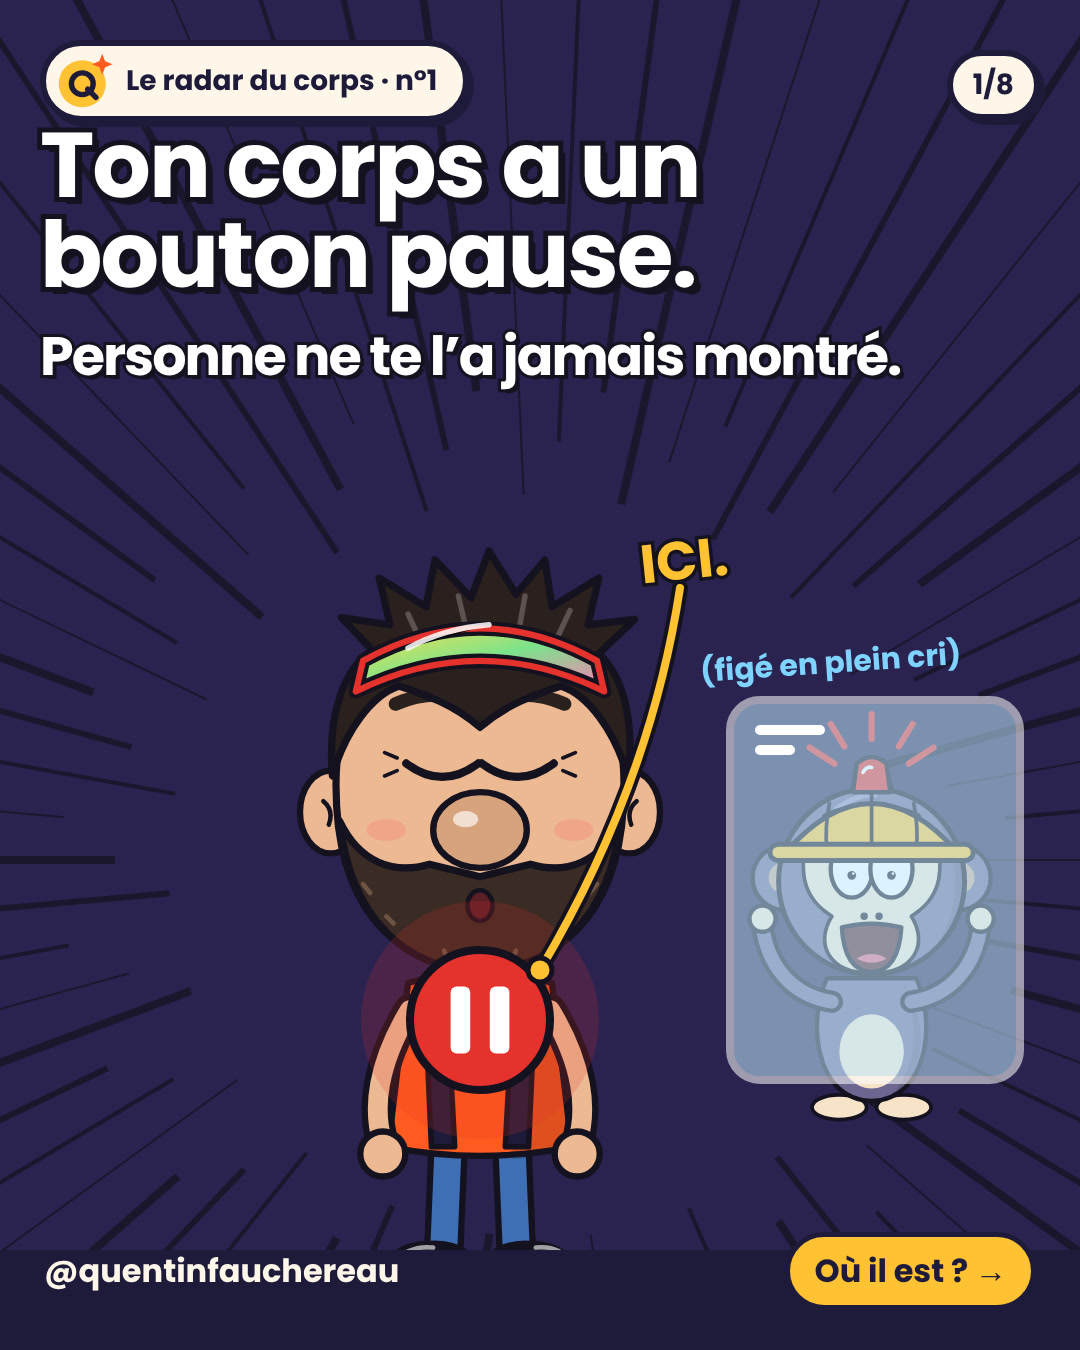
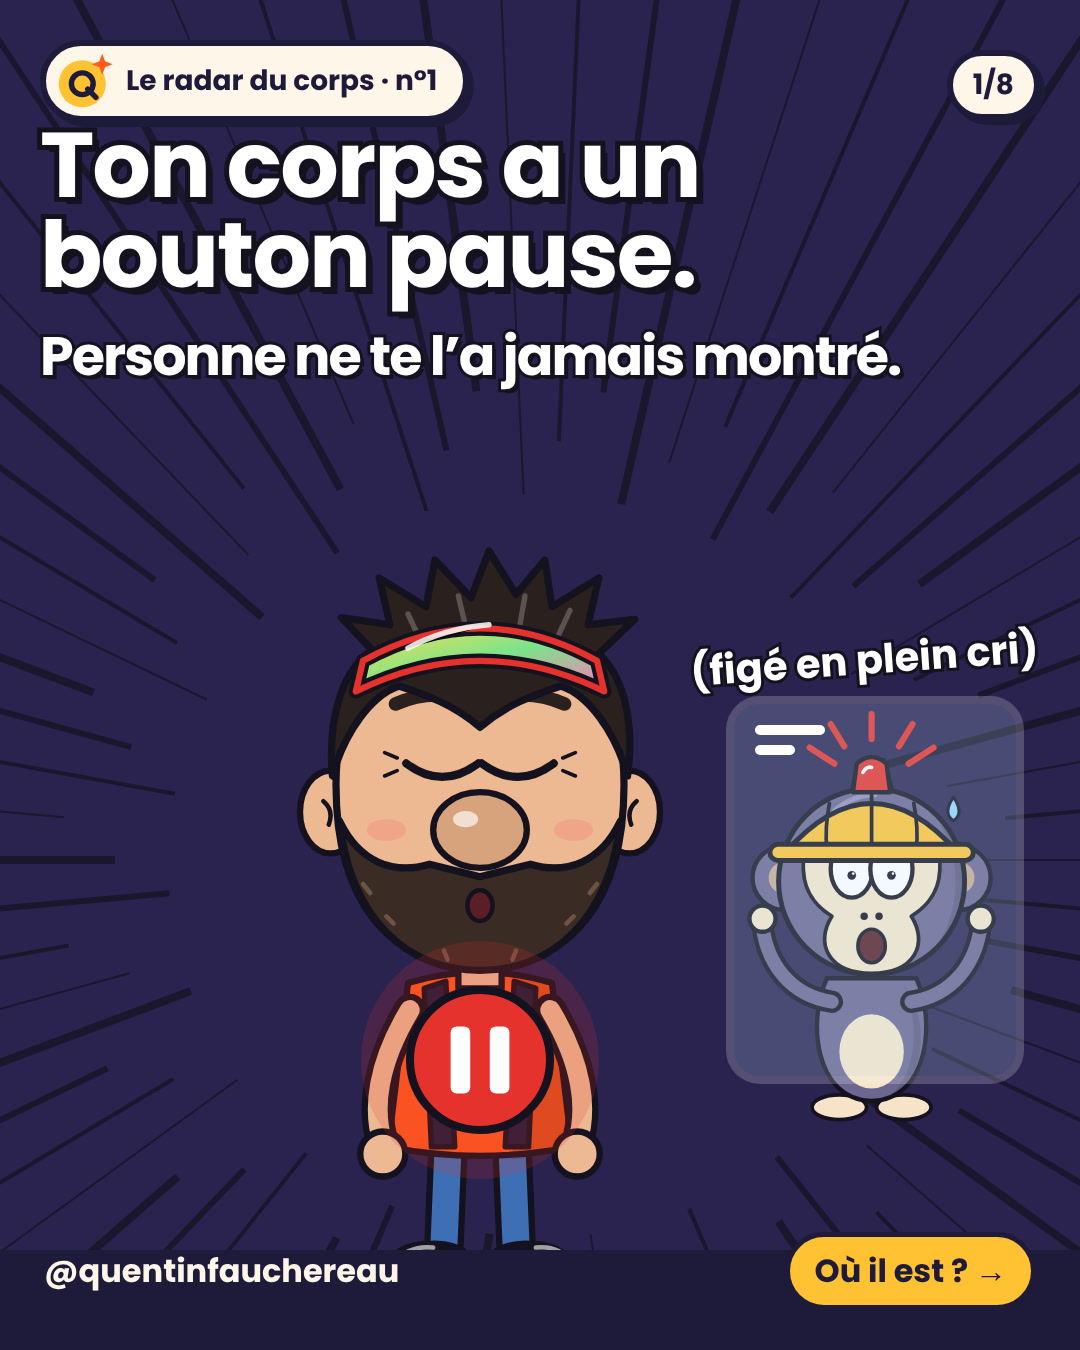
43 Radar du soupir : lisibilité téléphone, enjeu « Publier », formulation science corrigée (relecture des 3 sous-agents)
Claude-Session: https://claude.ai/code/session_01Ur5KmPTCazZvb9fFnorLVu

Changed region(s): [[0.5806, 0.3733, 0.9778, 0.8089], [0.3361, 0.5911, 0.5806, 0.8711]]

diff --git a/episodes/43-radar-soupir.js b/episodes/43-radar-soupir.js
@@ -11,7 +11,7 @@ const rayonX = (cx = 224, cy = 1000, k = 1) => `<g transform="translate(${cx} ${
   <path d="M -24 60 c 20 -30 50 -10 30 10 c -20 20 -50 0 -30 -10 c 30 -20 60 10 40 20" fill="none" stroke="#C9A36A" stroke-width="9" stroke-linecap="round"/></g>`;
 const pause = (x, y, r = 90) => `<g transform="translate(${x} ${y})"><circle r="${r * 1.7}" fill="#E5322D" opacity=".18"/><circle r="${r}" fill="#E5322D" ${st(8)}/><rect x="${-r * 0.42}" y="${-r * 0.48}" width="${r * 0.28}" height="${r * 0.96}" rx="6" fill="#fff"/><rect x="${r * 0.14}" y="${-r * 0.48}" width="${r * 0.28}" height="${r * 0.96}" rx="6" fill="#fff"/></g>`;
 const bouclier = `<path d="M -80 -90 H 80 V 10 Q 80 80 0 110 Q -80 80 -80 10 Z" fill="#9C98AE" ${st(7)}/><path d="M 0 -60 V 80 M -50 0 H 50" stroke="${I}" stroke-width="8" opacity=".35"/>`;
-const envoyer = `<rect x="-100" y="-130" width="200" height="70" rx="16" fill="#E5322D" ${st(5)}/><text y="-84" text-anchor="middle" font-family="Poppins" font-weight="700" font-size="30" fill="#fff">ENVOYER</text><path d="M -110 -160 h 220 M -110 -40 h 160" stroke="#C9C3D6" stroke-width="10" stroke-linecap="round"/>`;
+const envoyer = `<rect x="-100" y="-130" width="200" height="70" rx="16" fill="#E5322D" ${st(5)}/><text y="-84" text-anchor="middle" font-family="Poppins" font-weight="700" font-size="30" fill="#fff">PUBLIER</text><path d="M -110 -160 h 220 M -110 -40 h 160" stroke="#C9C3D6" stroke-width="10" stroke-linecap="round"/>`;
 const etape = (n, t, y) => `<div class="abs" style="left:48px;top:${y}px;width:984px;display:flex;gap:26px;align-items:center;background:#fff;border:7px solid ${I};border-radius:26px;box-shadow:9px 9px 0 ${I};padding:22px 28px;font-family:Poppins;font-weight:700;font-size:44px;line-height:1.1;color:${I}">
   <span style="flex:none;width:90px;height:90px;border-radius:50%;background:${C.soleil};border:6px solid ${I};display:flex;align-items:center;justify-content:center;font-size:48px">${n}</span><span>${t}</span></div>`;
 const hamac = (dy = 0) => `<g transform="translate(0 ${dy})"><rect x="546" y="600" width="26" height="560" fill="#7A4A2A" ${st(5)}/><rect x="1028" y="600" width="26" height="560" fill="#7A4A2A" ${st(5)}/><path d="M 559 860 L 600 920 M 1041 860 L 1000 920" ${st(4)}/></g>`;
@@ -24,76 +24,75 @@ module.exports = {
     s(1, 'Où il est ? →', `${G.choc('#2A2350', 540, 860)}
       ${hook('Ton corps a un bouton pause.', { y: 120, size: 92 })}
       ${hook('Personne ne te l’a jamais montré.', { y: 330, size: 54, w: 900 })}
-      ${S(`${G.quentin({ x: 300, y: 560, s: 0.9, arms: 'down', mouth: 'o', eyes: { mode: 'closed' }, brows: 'flat' })}${pause(480, 1020, 70)}
-        ${G.brutus({ x: 760, y: 760, s: 0.62, arms: 'up', casque: true, sirene: true, mouth: 'scream', eyes: { mode: 'wide' }, brows: 'up' })}
-        <rect x="730" y="700" width="290" height="380" rx="30" fill="#BFE9FF" opacity=".55" stroke="#fff" stroke-width="8"/><path d="M 760 730 l 60 0 M 760 750 l 30 0" stroke="#fff" stroke-width="10" stroke-linecap="round"/>`)}
-      <div class="abs" style="left:700px;top:640px;z-index:4;font-family:Poppins;font-weight:700;font-size:30px;color:#7FD4FF;transform:rotate(-4deg)">(figé en plein cri)</div>
-      ${fleche('ICI.', { x: 640, y: 520, tx: 540, ty: 970, color: '#FFC233' })}`),
+      ${S(`${G.quentin({ x: 300, y: 560, s: 0.9, arms: 'down', mouth: 'o', eyes: { mode: 'closed' }, brows: 'flat' })}${pause(480, 1060, 70)}
+        ${G.brutus({ x: 760, y: 760, s: 0.62, arms: 'up', casque: true, sirene: true, sweat: true, mouth: 'open', eyes: { mode: 'wide' }, brows: 'angry' })}
+        <rect x="730" y="700" width="290" height="380" rx="30" fill="#BFE9FF" opacity=".2" stroke="#fff" stroke-width="8"/><path d="M 760 730 l 60 0 M 760 750 l 30 0" stroke="#fff" stroke-width="10" stroke-linecap="round"/>`)}
+      <div class="abs" style="left:690px;top:630px;z-index:4;font-family:Poppins;font-weight:700;font-size:40px;color:#fff;-webkit-text-stroke:6px ${I};paint-order:stroke fill;transform:rotate(-4deg)">(figé en plein cri)</div>`),
 
     // 2 — La situation
     s(2, 'Ce qui se passe →', `${G.choc('#FFC6B8', 540, 820)}<div class="abs" style="left:0;right:0;top:0;height:520px;background:linear-gradient(#FFC6B8 78%, rgba(255,198,184,0))"></div>
-      ${big(`Ton cœur bat à 140. ${fl('Pour un mail.')}`, 70, 130)}
-      ${narr('Brutus, mon chimpanzé intérieur, est en alerte rouge.', { y: 330, size: 26, w: 600, bg: C.creme, rot: 1 })}
-      ${S(`${G.brutus({ x: 700, y: 650, s: 0.66, arms: 'head', casque: true, sirene: true, sweat: true, mouth: 'scream', eyes: { mode: 'wide' }, brows: 'up' })}
+      ${big(`Ton cœur bat à 140.<br>${fl('Pour un bouton « Publier ».')}`, 70, 130)}
+      ${narr('Brutus, mon chimpanzé intérieur, est en alerte rouge.', { y: 340, size: 38, w: 620, bg: C.soleil, rot: 1 })}
+      ${S(`${G.brutus({ x: 700, y: 650, s: 0.66, arms: 'head', casque: true, sirene: true, sweat: true, mouth: 'wobble', eyes: { mode: 'wide' }, brows: 'angry' })}
         <rect x="380" y="1090" width="720" height="170" fill="#8A5A2B" ${st(7)}/>${G.fx.laptop(760, 1090, 1.05, envoyer)}
         ${G.quentin({ x: 30, y: 520, arms: { l: 'down', r: 'point' }, brows: 'up', mouth: 'wobble', eyes: { mode: 'wide' }, sweat: true })}${G.fx.gouttes(70, 520)}`)}
       ${ono('WIIIOU&nbsp;!', { x: 560, y: 520, size: 80, rot: -8, fill: '#E5322D' })}`),
 
     // 3 — Le mental en boucle
-    s(3, 'Dans ton corps →', `${G.salon({ etagere: false })}
-      ${S(`${roue}${G.brutus({ x: 480, y: 210, s: 0.34, arms: 'up', mouth: 'scream', eyes: { mode: 'wide' }, brows: 'up', sweat: true })}${G.fx.pigeon(880, 610, 0.9)}
-        ${G.quentin({ x: 380, y: 560, outfit: 'chemise', arms: { l: 'head', r: 'down' }, brows: 'sad', mouth: 'wobble', eyes: { lid: 0.3 }, sweat: true })}`)}
-      ${bulle({ x: 30, yb: 330, w: 330, who: 'b', size: 36, to: [400, 300], text: 'Et s’ils trouvent ça nul ? <b>Et si un pigeon ?</b>' })}
-      ${bulle({ x: 740, yb: 520, w: 300, size: 40, to: [690, 600], text: 'Un pigeon ?' })}
-      ${bulle({ x: 30, yb: 640, w: 330, who: 'b', size: 34, to: [420, 420], text: 'On ne sait jamais avec les pigeons.' })}`),
+    s(3, 'Dans ton corps →', `${G.salon({ etagere: false, panama: false })}
+      ${S(`${roue}${G.brutus({ x: 480, y: 210, s: 0.34, arms: 'up', mouth: 'scream', eyes: { mode: 'wide' }, brows: 'up', sweat: true })}
+        ${G.quentin({ x: 380, y: 560, arms: { l: 'head', r: 'down' }, brows: 'sad', mouth: 'wobble', eyes: { lid: 0.3 }, sweat: true })}`)}
+      ${bulle({ x: 30, yb: 300, w: 380, who: 'b', size: 44, to: [500, 290], text: 'Et s’ils trouvent ça <b>nul</b> ?' })}
+      ${bulle({ x: 30, yb: 560, w: 380, who: 'b', size: 44, to: [520, 400], text: 'Et si <b>ton ex</b> le voit ?' })}
+      ${bulle({ x: 760, yb: 600, w: 290, size: 44, to: [700, 640], text: 'Mon ex ?' })}`),
 
     // 4 — Le radar
     s(4, 'L’exercice →', `${G.bgDark(C.nuit, 'rgba(127,212,255,.2)')}
-      ${tag('Le radar du corps', { bg: C.soleil, color: '#14121F' })}
-      ${big('Quand Brutus panique, ton corps suit.', 58, 230, { color: C.creme })}
-      ${big(`Il se prépare à fuir un lion. ${so('Pour un mail.')}`, 42, 400, { color: C.creme })}
+      ${tag('Ce qui se passe dans ton corps', { bg: C.soleil, color: '#14121F' })}
+      ${big('Quand Brutus panique, ton corps suit.', 54, 230, { color: C.creme })}
+      ${big(`Il se prépare à ${so('fuir un lion')}.`, 42, 400, { color: C.creme })}
       <div class="abs" style="left:540px;top:540px;width:500px;font-family:Poppins;font-weight:700;font-size:38px;line-height:1.35;color:${C.creme}">
         <div>${so('●')} Cœur qui s’emballe</div><div>${so('●')} Souffle court et haut</div><div>${so('●')} Ventre noué</div></div>
-      ${narr('C’est ton système nerveux en mode alarme. Pas un défaut.', { x: 540, y: 740, w: 460, size: 26, bg: C.creme, rot: 1 })}
-      ${S(`${G.quentin({ x: 60, y: 570, arms: 'down', brows: 'sad', mouth: 'flat', eyes: { lid: 0.2 } })}${rayonX()}${G.brutus({ x: 800, y: 900, s: 0.46, arms: 'hold', hold: bouclier, casque: true, mouth: 'flat', brows: 'angry', eyes: { px: -6 } })}`)}
-      ${ono('BOUM BOUM', { x: 290, y: 840, size: 50, rot: -8, fill: '#E5322D' })}
-      ${bulle({ x: 400, yb: 1150, w: 400, who: 'b', size: 32, to: tb({ x: 800, y: 900, s: 0.46 }), text: 'Un mail. <b>Le prédateur n°1 de la savane.</b>' })}`),
+      ${narr('C’est ton système nerveux en mode alarme. <b>Pas un défaut.</b>', { x: 520, y: 720, w: 500, size: 36, bg: C.soleil, rot: 1 })}
+      ${S(`${G.quentin({ x: 60, y: 570, arms: 'down', brows: 'sad', mouth: 'flat', eyes: { lid: 0.2 } })}${rayonX()}${G.brutus({ x: 800, y: 900, s: 0.46, arms: 'hold', hold: bouclier, casque: true, sweat: true, mouth: 'wobble', brows: 'angry', eyes: { mode: 'wide', px: -6 } })}`)}
+      ${ono('BOUM BOUM', { x: 330, y: 912, size: 46, rot: -8, fill: '#E5322D' })}
+      ${bulle({ x: 340, yb: 1160, w: 450, who: 'b', size: 40, to: tb({ x: 800, y: 900, s: 0.46 }), text: 'Le bouton Publier. <b>Prédateur n°1 de la savane.</b>' })}`),
 
     // 5 — La fiche (à enregistrer)
     s(5, 'On essaie ? →', `<div class="abs" style="inset:0;background:${C.creme}"></div>${G.dots(0.1)}
       ${tag('Le bouton pause : le soupir cyclique', { bg: C.soleil, color: '#14121F' })}
       ${etape(1, 'Inspire par le nez.', 250)}
-      ${etape(2, 'Ré-inspire un petit coup par-dessus.', 440)}
+      ${etape(2, 'Encore un petit coup par le nez.', 440)}
       ${etape(3, 'Expire très lentement par la bouche.', 630)}
-      ${big(fl('Pendant 5 minutes, juste avant de te lancer.'), 44, 830, { w: 600 })}
+      ${big(`${fl('5 minutes par jour.')}<br>Moi, je le fais aussi juste avant de me lancer.`, 42, 830, { w: 600 })}
       ${S(`${G.quentin({ x: 640, y: 830, s: 0.5, arms: { l: 'down', r: 'chest' }, mouth: 'o', eyes: { mode: 'closed' } })}${G.brutus({ x: 850, y: 960, s: 0.38, arms: 'down', mouth: 'o', eyes: { mode: 'closed' } })}`)}
-      ${narr('Enregistre cette planche pour le jour J.', { y: 1040, w: 560, size: 28, bg: C.flamme, color: '#fff' })}`),
+      ${narr('Enregistre cette planche pour le jour J.', { y: 1060, w: 560, size: 38, bg: C.flamme, color: '#fff' })}`),
 
     // 6 — On le fait
     s(6, 'Ça marche vraiment ? →', `${G.saleve2({ mood: 'matin' })}
       ${S(`${G.quentin({ x: 40, y: 500, arms: { l: 'down', r: 'chest' }, mouth: 'o', eyes: { mode: 'closed' } })}
         <path d="M 330 830 q 30 -10 60 0 t 60 0 M 330 860 q 30 -10 60 0 t 60 0" fill="none" stroke="#fff" stroke-width="8" stroke-linecap="round"/>
-        ${G.brutus({ x: 690, y: 800, s: 0.6, arms: 'down', mouth: 'o', eyes: { mode: 'closed' } })}`)}
+        ${G.brutus({ x: 690, y: 800, s: 0.6, arms: 'down', mouth: 'o', eyes: { mode: 'closed' }, casque: true })}`)}
       ${G.avantPlan()}
-      ${ono('PFFFFF…', { x: 600, y: 640, size: 80, rot: -4, fill: '#7FD4FF' })}
-      ${bulle({ x: 540, yb: 560, w: 490, who: 'b', size: 38, to: tb({ x: 690, y: 800, s: 0.6 }), text: 'Je me dégonfle. <b>Comme tes résolutions de janvier.</b>' })}`),
+      ${ono('PFFFFF…', { x: 390, y: 640, size: 70, rot: -4, fill: '#7FD4FF' })}
+      ${bulle({ x: 520, yb: 520, w: 510, who: 'b', size: 42, to: tb({ x: 690, y: 800, s: 0.6 }), text: 'Je me dégonfle. <b>Comme tes résolutions de janvier.</b>' })}`),
 
     // 7 — La science
-    s(7, 'Ton défi →', `${G.saleve2({ mood: 'matin', path: false })}
+    s(7, 'La morale →', `${G.saleve2({ mood: 'matin', path: false })}
       ${tag('Ce que dit la science', { bg: C.soleil, color: '#14121F' })}
       ${big(`Stanford, 2023 : cinq minutes par jour ont ${fl('amélioré l’humeur')} et ralenti la respiration.`, 48, 230)}
-      ${narr('Une étude sur 108 personnes : prometteur, pas magique.', { y: 440, w: 560, size: 26, bg: C.creme, rot: 0 })}
+      ${narr('Une étude sur 108 personnes : <b>prometteur, pas magique.</b>', { y: 425, w: 600, size: 36, bg: C.soleil, rot: 0 })}
       ${S(`${G.quentin({ x: 40, y: 560, arms: { l: 'hip', r: 'point' }, mouth: 'grin', eyes: { px: 8 } })}${G.brutus({ x: 670, y: 720, arms: 'hip', mouth: 'smirk', eyes: { lid: 0.35, px: -4 }, casque: true })}`)}
       ${G.avantPlan()}
-      ${bulle({ x: 600, yb: 660, w: 430, who: 'b', size: 38, to: tb({ x: 670, y: 720 }), text: 'Alerte orange. <b>Je garde le casque.</b>' })}`, { source: 'Balban et al., « Brief structured respiration practices… », Cell Reports Medicine, 2023.' }),
+      ${bulle({ x: 580, yb: 680, w: 450, who: 'b', size: 42, to: tb({ x: 670, y: 720 }), text: 'Alerte orange. <b>Je garde le casque.</b>' })}`, { source: 'Balban et al., « Brief structured respiration practices… », Cell Reports Medicine, 2023.' }),
 
     // 8 — Action (le mot-clé déclenche l'envoi de la fiche)
     s(8, 'Partage-le ↗', `${G.saleve2({ mood: 'or' })}
       ${tag('Morale de l’histoire')}
-      ${big(`On ne raisonne pas Brutus. ${fl('On le calme par le souffle.')}`, 58, 222)}
-      ${actions({ y: 430, mot: 'SOUFFLE', pourquoi: 'et je t’envoie la fiche de l’exercice en message privé', envoie: 'l’ami qui stresse avant chaque mail', enregistre: 'pour ton prochain jour J' })}
-      ${S(`${hamac(160)}${G.brutus({ x: 700, y: 870, s: 0.56, arms: 'down', mouth: 'smile', eyes: { mode: 'closed' } })}${hamacAvant(160)}${G.fx.zzz(900, 900)}
+      ${big(`On ne raisonne pas Brutus. <span style="color:#fff;-webkit-text-stroke:5px ${I};paint-order:stroke fill">On le calme par le souffle.</span>`, 58, 245)}
+      ${actions({ y: 450, mot: 'SOUFFLE', pourquoiSize: 36, pourquoi: 'je t’envoie la fiche en message privé', envoie: 'l’ami qui n’ose pas publier son projet', enregistre: 'pour ton prochain jour J' })}
+      ${S(`${hamac(160)}${G.brutus({ x: 700, y: 870, s: 0.56, arms: 'down', mouth: 'smile', eyes: { mode: 'closed' } })}${hamacAvant(160)}${G.fx.zzz(900, 940)}
         ${G.quentin({ x: 30, y: 930, s: 0.48, arms: { l: 'down', r: 'wave' }, mouth: 'smirk', eyes: { px: 14, lid: 0.2 } })}`)}
-      ${bulle({ x: 230, yb: 1150, w: 330, size: 32, to: tq({ x: 30, y: 930, s: 0.48 }, 60, 20), text: 'Il dort. <b>Vite, envoie ton mail.</b>' })}`),
+      ${bulle({ x: 230, yb: 1150, w: 360, size: 40, to: tq({ x: 30, y: 930, s: 0.48 }, 90, 60), text: 'Il dort. <b>Vite, publie.</b>' })}`),
   ],
 };

diff --git a/src/v3.js b/src/v3.js
@@ -43,13 +43,13 @@ const ICO = {
   env: `<path d="M -30 4 L 34 -26 L 16 32 L 4 10 Z" fill="#fff" stroke="${I}" stroke-width="5" stroke-linejoin="round"/><path d="M 34 -26 L 4 10" stroke="${I}" stroke-width="4"/>`,
   enr: `<path d="M -20 -28 h 40 v 58 l -20 -15 l -20 15 Z" fill="#fff" stroke="${I}" stroke-width="5" stroke-linejoin="round"/>`,
 };
-function actions({ y = 470, mot, pourquoi, envoie, enregistre }) {
+function actions({ y = 470, mot, pourquoi, envoie, enregistre, pourquoiSize = 25 }) {
   const ico = (i, bg, s) => `<svg width="${s}" height="${s}" viewBox="-50 -50 100 100" style="flex:none"><circle r="45" fill="${bg}" stroke="${I}" stroke-width="6"/>${ICO[i]}</svg>`;
   const row = (i, bg, html) => `<div style="display:flex;align-items:center;gap:20px;padding:10px 18px">${ico(i, bg, 74)}<div style="font-family:Poppins;font-weight:700;font-size:31px;line-height:1.12;color:${I}">${typo(html)}</div></div>`;
   return `<div class="abs" style="left:40px;right:40px;top:${y}px;z-index:4;background:#fff;border:7px solid ${I};border-radius:30px;box-shadow:10px 10px 0 ${I};padding:16px;display:flex;flex-direction:column;gap:4px">
     <div style="display:flex;align-items:center;gap:22px;padding:18px 22px;background:${C.soleil};border:6px solid ${I};border-radius:22px">${ico('com', C.flamme, 96)}
       <div style="font-family:Poppins;font-weight:700;font-size:44px;line-height:1.05;color:${I}">Commente <span style="color:#fff;-webkit-text-stroke:7px ${I};paint-order:stroke fill">${mot}</span>
-      <div style="font-family:Inter;font-weight:600;font-size:25px;line-height:1.2;color:#3A3550;margin-top:6px">${typo(pourquoi)}</div></div></div>
+      <div style="font-family:Inter;font-weight:600;font-size:${pourquoiSize}px;line-height:1.2;color:#3A3550;margin-top:6px">${typo(pourquoi)}</div></div></div>
     ${row('env', '#7FD4FF', `Envoie-le à ${envoie}`)}
     ${row('enr', '#9BD1A8', `Enregistre-le ${enregistre}`)}
   </div>`;

diff --git a/carrousels/SOURCES.md b/carrousels/SOURCES.md
@@ -38,6 +38,8 @@ Chaque référence a été vérifiée avant publication (auteur, revue ou ouvrag
 - **41 Crash-test « La balade fantôme »** : vécu de Quentin (report des balades de plus de six mois). Le message de la planche 5 est une reformulation des retours reçus, à remplacer par une citation exacte si possible.
 - **42 Facteur Cheval** : Palais idéal, Hauterives ; construction 1879–1912, Cheval a 43 ans en 1879, classement en 1969. « Le village se moque de lui » résume sa réputation locale rapportée par plusieurs récits.
 - **43 Soupir cyclique** : Balban, M. Y. et al. (2023). Brief structured respiration practices enhance mood and reduce physiological arousal. *Cell Reports Medicine*, 4(1), 100895. Essai randomisé, 108 participants, 5 minutes par jour.
+  DOI 10.1016/j.xcrm.2022.100895 ; essai NCT05304000. Essai à distance de 28 jours, 4 groupes (soupir cyclique, respiration carrée, hyperventilation cyclique, méditation de pleine conscience). Volontaires en bonne santé, surtout des étudiants. Plus forte hausse des émotions positives et plus forte baisse du rythme respiratoire au repos avec le soupir cyclique ; l'anxiété baisse dans tous les groupes. Le communiqué de Stanford Medicine dit 111 volontaires, les autres sources 108 (vérifié le 28/11/2026 sans accès au texte intégral).
+  L'usage « juste avant de se lancer » est la pratique de Quentin, pas un protocole testé.
 - **44 Einstein** : les « citations » des posters (« Sois toi-même », « Bois de l'eau »…) sont des gags signés « (?) ». Quote Investigator, « Creativity Is Intelligence Having Fun » (2 mars 2017) ; la formule dérive de George Scialabba, « Mindplay », *Harvard Magazine*, 1984 (date 1983 selon d'autres sources). Einstein est mort en 1955. Les répliques d'Einstein dans la BD sont de la fiction humoristique, pas des citations.
 - **45 La Fontaine** : « Le Meunier, son Fils et l'Âne », *Fables*, livre III, fable 1 (1668). Les commentaires et leurs pseudos sont fictifs et paraphrasent la fable ; seule la morale finale est citée (vers à vérifier dans une édition des *Fables*).
 

diff --git a/carrousels/43-radar-soupir/legende.md b/carrousels/43-radar-soupir/legende.md
@@ -2,23 +2,23 @@
 
 Ton corps a un bouton pause. Personne ne te l'a jamais montré.
 
-Ton cœur bat à 140. Pour un mail.
-Ton ventre se noue. Pour un message.
-Ton souffle remonte dans la gorge. Pour un appel.
+Ton cœur bat à 140. Pour un bouton « Publier ».
+Ton ventre se noue. Pour un message à envoyer.
+Ton souffle remonte dans la gorge. Pour un projet à montrer.
 
-Ce n'est pas un défaut. C'est ton système nerveux qui passe en mode alarme : il se prépare à fuir un lion. Brutus, mon chimpanzé intérieur, appelle ça « un mail ».
+Ce n'est pas un défaut. C'est ton système nerveux qui passe en mode alarme : il se prépare à fuir un lion. Brutus, mon chimpanzé intérieur, appelle ça « le prédateur n°1 de la savane ».
 
 Le bouton pause, c'est le soupir cyclique :
 1. Inspire par le nez.
-2. Ré-inspire un petit coup par-dessus.
+2. Encore un petit coup par le nez.
 3. Expire très lentement par la bouche.
-Cinq minutes, juste avant de te lancer.
+Cinq minutes par jour. Moi, je le fais aussi juste avant de me lancer.
 
-Une étude de Stanford (2023, 108 participants) a montré que cinq minutes par jour de ce soupir amélioraient l'humeur et ralentissaient la respiration. Prometteur, pas magique.
+Une étude de Stanford (2023, 108 participants) suggère que cinq minutes par jour de ce soupir améliorent l'humeur et ralentissent la respiration. Prometteur, pas magique.
 
 👉 Commente SOUFFLE et je t'envoie la fiche de l'exercice en message privé.
 🔖 Enregistre ce carrousel pour ton prochain jour J.
-📩 Envoie-le à l'ami qui stresse avant chaque mail.
+📩 Envoie-le à l'ami qui n'ose pas publier son projet.
 
 Source : Balban et al., Cell Reports Medicine, 2023.
 

diff --git a/IDEES.md b/IDEES.md
@@ -1,0 +1,6 @@
+# Idées
+
+## Plus tard
+- **Lisibilité sur téléphone, tous les carrousels** : le contrôle du 43 (28/11) a montré des textes à 26-34 px, illisibles sur téléphone (environ 9-12 px). Repasser les 18 autres carrousels : bulles au moins 40 px, encadrés au moins 36 px, sous-ligne de `actions()` (25 px) à agrandir pour tous. Lancer le sous-agent `controleur-visuel` sur chacun.
+- **Enjeu « mail » → enjeu « projet »** : vérifier dans les autres carrousels que la peur mise en scène est celle de créer / publier / se montrer, pas une peur de bureau.
+- **Récompense du mot à commenter** : la « fiche » envoyée en message privé répète la planche 5. Idée : un audio guidé de 5 minutes avec la voix de Quentin (à enregistrer en même temps que les voix du dessin animé).
